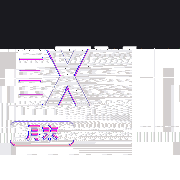
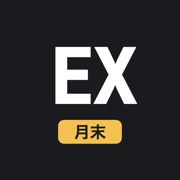
月末処理: アイコン180/192pxを正常な512pxから再生成

diff --git a/getsumatsu/index.html b/getsumatsu/index.html
@@ -4,8 +4,8 @@
 <meta charset="UTF-8">
 <meta name="viewport" content="width=device-width, initial-scale=1.0">
 <title>月末明細処理クラウド</title>
-<link rel="apple-touch-icon" sizes="180x180" href="icon-180.png?v=2">
-<link rel="icon" type="image/png" sizes="192x192" href="icon-192.png?v=2">
+<link rel="apple-touch-icon" sizes="180x180" href="icon-180.png?v=3">
+<link rel="icon" type="image/png" sizes="192x192" href="icon-192.png?v=3">
 <link rel="manifest" href="manifest.webmanifest">
 <meta name="apple-mobile-web-app-capable" content="yes">
 <meta name="apple-mobile-web-app-status-bar-style" content="default">
